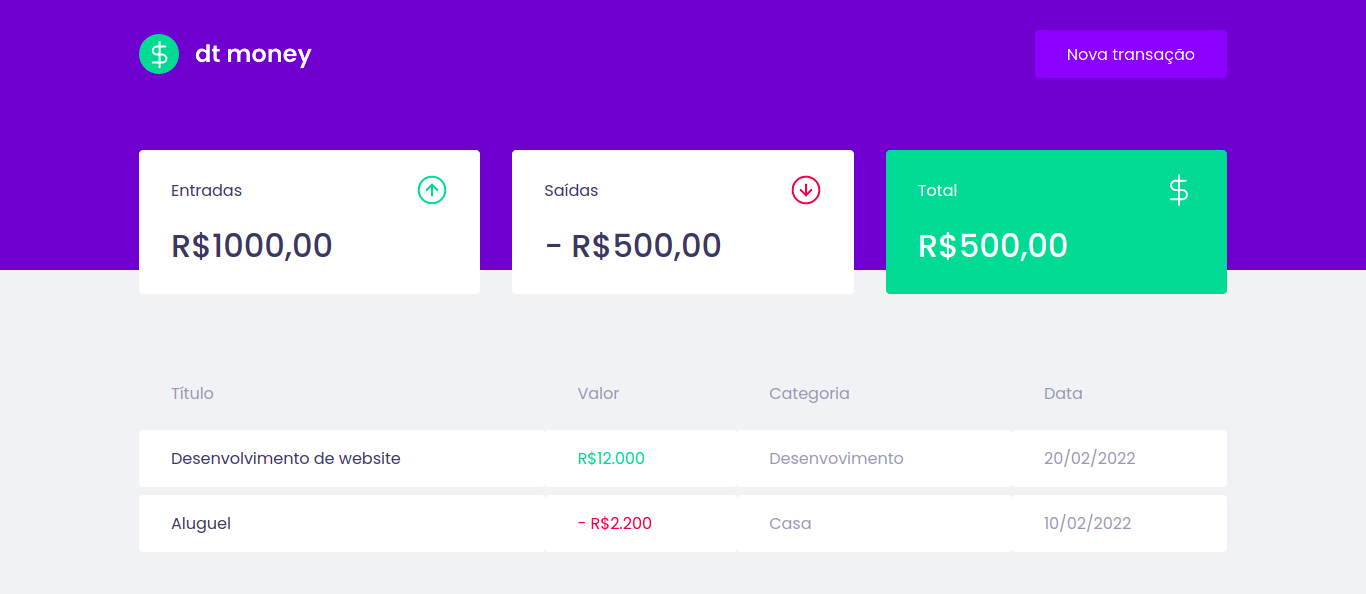
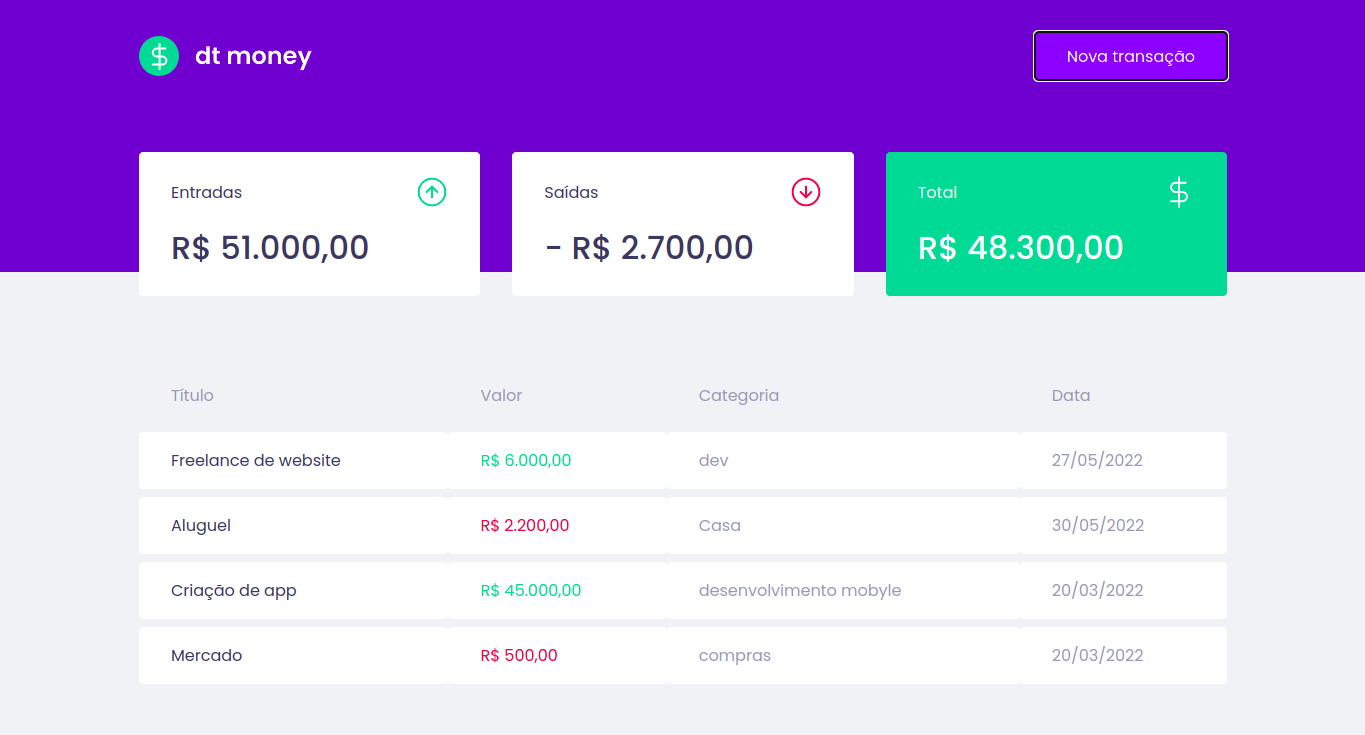
chore: add custom hook

diff --git a/src/components/Summary/index.tsx b/src/components/Summary/index.tsx
@@ -1,14 +1,28 @@
-import { useContext } from "react";
-import { TransactionsContext } from "TransactionsContext";
+import { useTransactions } from "hooks/useTransactions";
+
 import { Container } from "./styles";
 import incomeImg from "assets/income.svg";
 import outcomeImg from "assets/outcome.svg";
 import totalImg from "assets/total.svg";
 
 export function Summary() {
-   const { transactions } = useContext(TransactionsContext);
+   const { transactions } = useTransactions();
 
-   console.log("Summary: ", transactions);
+   const summary = transactions.reduce((acc, transaction) => {
+      if (transaction.type === "deposit") {
+         acc.deposits += transaction.amount
+         acc.total += transaction.amount
+      } else {
+         acc.withdraws += transaction.amount
+         acc.total -= transaction.amount
+      }
+
+      return acc
+   }, {
+      deposits: 0,
+      withdraws: 0,
+      total: 0
+   })
 
    return(
       <Container>
@@ -18,21 +32,36 @@ export function Summary() {
                <p>Entradas</p>
                <img src={ incomeImg } alt="Entradas" />
             </header>
-            <strong>R$1000,00</strong>
+            <strong>{
+               new Intl.NumberFormat("pt-BR", {
+                  style: "currency",
+                  currency: "BRL",
+               }).format(summary.deposits)
+            }</strong>
          </div>
          <div>
             <header>
                <p>Saídas</p>
                <img src={ outcomeImg } alt="Saídas" />
             </header>
-            <strong>- R$500,00</strong>
+            <strong>- {
+               new Intl.NumberFormat("pt-BR", {
+                  style: "currency",
+                  currency: "BRL",
+               }).format(summary.withdraws)
+            }</strong>
          </div>
          <div className="highlight-background">
             <header>
                <p>Total</p>
                <img src={ totalImg } alt="Entradas" />
             </header>
-            <strong>R$500,00</strong>
+            <strong>{
+               new Intl.NumberFormat("pt-BR", {
+                  style: "currency",
+                  currency: "BRL",
+               }).format(summary.total)
+            }</strong>
          </div>
       </Container>
    );

diff --git a/src/components/NewTransactionModal/index.tsx b/src/components/NewTransactionModal/index.tsx
@@ -1,11 +1,12 @@
-import { FormEvent, useContext, useState } from 'react';
+import { FormEvent, useState } from 'react';
+import { useTransactions } from 'hooks/useTransactions';
 import Modal from 'react-modal';
+
 import closeImg from "assets/close.svg";
 import incomeImg from "assets/income.svg";
 import outcomeImg from "assets/outcome.svg";
 
 import { Container, RadioBox, TransactionTypeContainer } from './styles';
-import { TransactionsContext } from 'TransactionsContext';
 
 interface NewTransactionModalProps {
    isOpen: boolean;
@@ -24,7 +25,7 @@ export function NewTransactionModal({
    const [category, setCategory] = useState('');
    const [type, setType] = useState<depositType>('deposit');
 
-   const { createTransaction } = useContext(TransactionsContext);
+   const { createTransaction } = useTransactions();
 
    async function handleCreateNewTransaction(event: FormEvent) {
       event.preventDefault()

diff --git a/src/hooks/useTransactions.tsx b/src/hooks/useTransactions.tsx
@@ -1,4 +1,4 @@
-import { createContext, useEffect, useState, ReactNode } from "react";
+import { createContext, useEffect, useState, ReactNode, useContext } from "react";
 import { api } from "services/api";
 
 interface Transaction {
@@ -21,7 +21,7 @@ interface TransactionsContextData {
    createTransaction: (transactionInput: TransactionInput) => Promise<void>;
 }
 
-export const TransactionsContext = createContext<TransactionsContextData>(
+const TransactionsContext = createContext<TransactionsContextData>(
    {} as TransactionsContextData
 );
 
@@ -45,4 +45,10 @@ export function TransactionsProvider({ children }: TransactionsProviderProps) {
          { children }
       </TransactionsContext.Provider>
    );
+}
+
+export function useTransactions() {
+   const context = useContext(TransactionsContext);
+
+   return context;
 }

diff --git a/src/components/TransactionsTable/index.tsx b/src/components/TransactionsTable/index.tsx
@@ -1,9 +1,8 @@
-import { useContext } from "react";
-import { TransactionsContext } from "TransactionsContext";
+import { useTransactions } from "hooks/useTransactions";
 import { Container } from "./styles";
 
 export function TransactionsTable() {
-   const { transactions } = useContext(TransactionsContext);
+   const { transactions } = useTransactions();
 
    return (
       <Container>

diff --git a/src/App.tsx b/src/App.tsx
@@ -4,7 +4,7 @@ import { Dashboard } from "components/Dashboard";
 import { Header } from "components/Header";
 import { GlobalStyle } from "styles/global";
 import { NewTransactionModal } from "components/NewTransactionModal";
-import { TransactionsProvider } from "TransactionsContext";
+import { TransactionsProvider } from "hooks/useTransactions";
 
 Modal.setAppElement("#root");
 

diff --git a/README.md b/README.md
@@ -6,8 +6,38 @@
 
 O dtmoney é um exemplo de uma aplicação financeira criada para ajudar no controle de receitas e despesas. Desenvolvida para pessoas comuns terem acesso a uma ferramenta simples de usar no dia a dia.
 
+## Features
+
+São algumas das features implementadas nesse projeto de demonstração:
+* Cadastro de despesas;
+* Cadastro de valores recebidos;
+* Listagem das receitas e despesas;
+* Resumo do total de receitas;
+* Total de despesas;
+* Total do saldo.
+
 ## Detalhes técnicos
+
+### Inicializando projeto (ambiente de desenvolvimento):
+
+#### Algumas das tecnologias usadas:
+* Node v16.14.0
+* yarn v1.22.1
+* react-scripts v5.0.0
+
+#### Inicialização
+
+Para inicializar o projeto no ambiente de desenvolvimento use o comando:  
+```yarn```, para instalar as dependências, e em seguida ```yarn start```, Para rodar o projeto.
+
+### Diretório base da aplicação:
+
+Os **imports** podem usar o caminha relativo ou apontar diretamente para pastas e arquivos em src.  
+O arquivo **tsconfig** contém a propriedade **baseUrl** com o valor **src**. Então você pode fazer:
+> ```import { SomeComponent } from "components/SomeComponent"```  
+
+Podendo também usar caminhos relativos normalmente.
 
 ### Backend
 
-Usando a função **Server** fornecida pela biblioteca **miragejs** criamos uma fake api para uma simples demonstração de funcionamento do dtmoney
+Usando a função **Server** fornecida pela biblioteca **miragejs** criamos uma fake api para uma simples demonstração de funcionamento do dtmoney.
